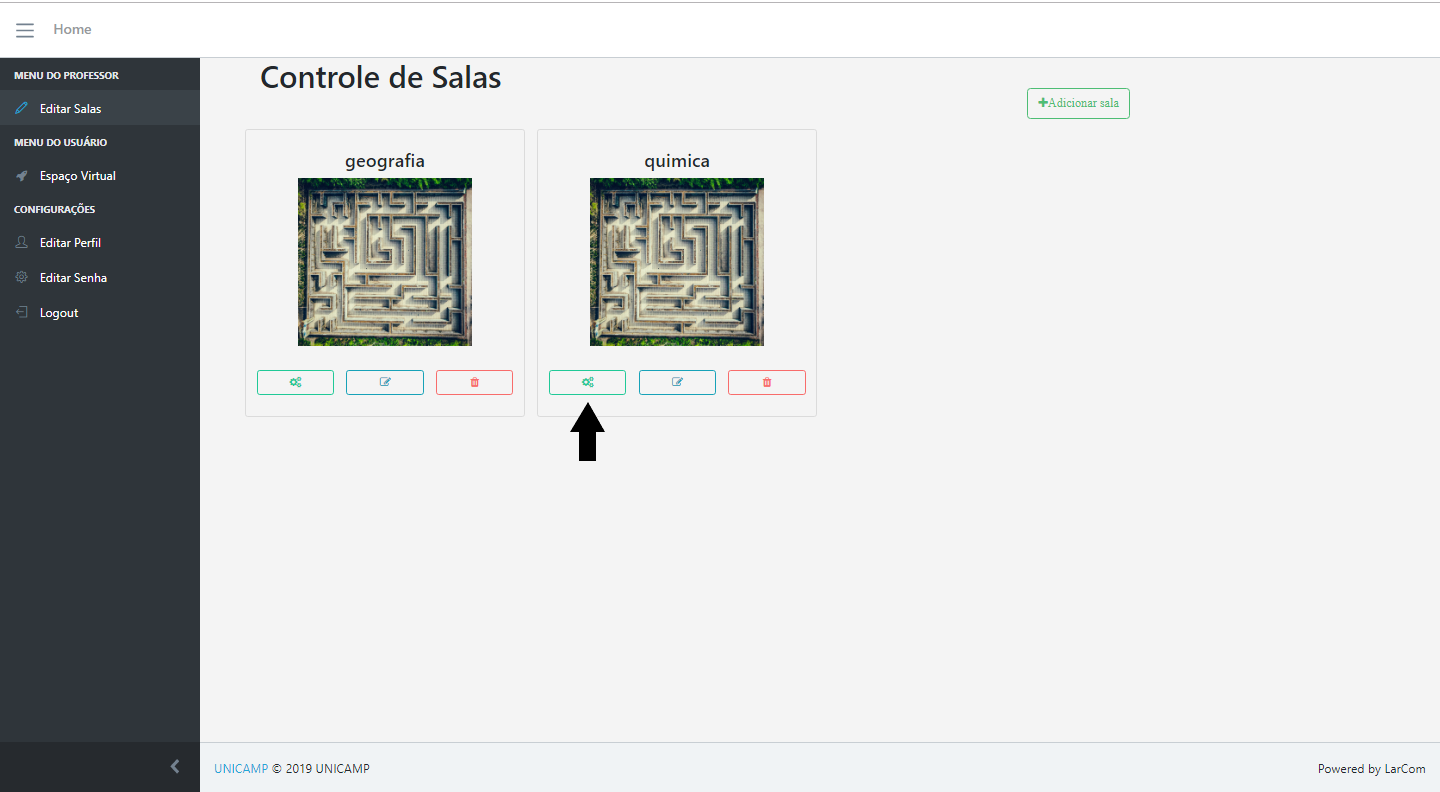
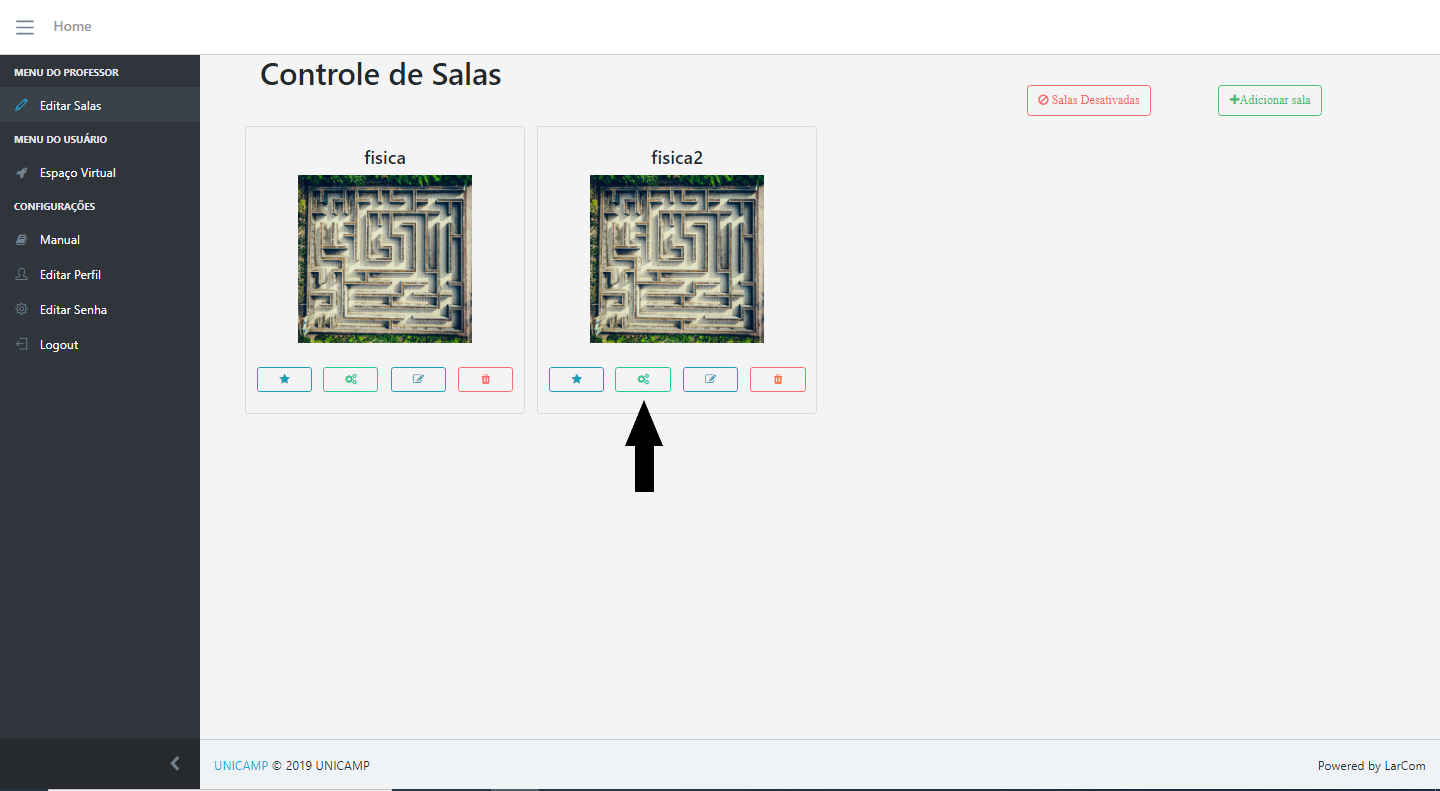
#cora att manual

diff --git a/public/admin/css/style.css b/public/admin/css/style.css
@@ -11217,6 +11217,7 @@ a.text-dark:focus {
 
     body {
         min-width: 992px !important;
+        line-height: 1.5;
     }
 
     .container {

diff --git a/resources/views/manual.blade.php b/resources/views/manual.blade.php
@@ -14,6 +14,8 @@
                             <a class="list-group-item list-group-item-action" href="manual#list-item-1-1">&emsp;Criar</a>
                             <a class="list-group-item list-group-item-action" href="manual#list-item-1-2">&emsp;Editar</a>
                             <a class="list-group-item list-group-item-action" href="manual#list-item-1-3">&emsp;Deletar</a>
+                            <a class="list-group-item list-group-item-action" href="manual#list-item-1-4">&emsp;Desabilitadas</a>
+                            <a class="list-group-item list-group-item-action" href="manual#list-item-1-5">&emsp;Habilitadas</a>
                         </div>
                     </a>
                     <a class="list-group-item list-group-item-action"></a>
@@ -72,7 +74,10 @@
                                         Tema: cenário do labirinto;
                                     </li>
                                     <li>
-                                        Sala Pública: este campo deverá marcado se a sala tiver que ser aberta a todos os jogadores, caso contrário apenas usuários escolhidos pelo criador do labirinto poderão acessar o jogo.
+                                        Sala Pública: este campo deverá ser marcado se a sala tiver que ser aberta a todos os jogadores, caso contrário apenas usuários escolhidos pelo criador do labirinto poderão acessar o jogo.
+                                    </li>
+                                    <li>
+                                        Ativo: este campo é marcado por padrão, ele permite que os alunos cadastrados na sala possam vê-la. Se não estiver marcado, os dados estatísticos serão mantidos, mas nenhum aluno poderá jogar o labirinto.
                                     </li>
                                 </ul>
 
@@ -102,6 +107,27 @@
                                 Para deletar uma sala, basta clicar no botão <i class="fa fa-trash"></i>.
                                 <br>
                                 <img src="/img/deletar_sala.png" class="img-fluid" style="width: 800px; padding-bottom: 50px; padding-top:50px; ">
+                            </p>
+                            
+                            <!--                            DESABILITAR SALA                           -->
+                            <h5 id="list-item-1-4">
+                                Desabilitar Sala
+                            </h5>
+                            <p>
+                                Para ver as salas desabilitadas, basta clicar em:
+                                <br>
+                                <img src="/img/disabled.png" class="img-fluid" style="width: 800px; padding-bottom: 50px; padding-top:50px; ">
+                            </p>
+                            
+                            
+                            <!--                            HABILITAR SALA                           -->
+                            <h5 id="list-item-1-5">
+                                Habilitar Sala
+                            </h5>
+                            <p>
+                                Para ver as salas habilitadas, basta clicar em:
+                                <br>
+                                <img src="/img/enabled.png" class="img-fluid" style="width: 800px; padding-bottom: 50px; padding-top:50px; ">
                             </p>
                             
                         </div>

diff --git a/resources/views/virtual.blade.php b/resources/views/virtual.blade.php
@@ -18,7 +18,11 @@
 <?php $linha = 0; $flag = 0; $flag_sala =0; $flag_salap =0;
 ?>
 
-<div class="container-fluid " style=" margin-top:20px; padding-top: 10px; padding-top: 10px; background-color:#ffffff; border-radius: 20px; ">
+@if($salapr>0)
+  <div class="container-fluid " style=" margin-top:20px; padding-top: 10px; padding-top: 10px; background-color:#ffffff; border-radius: 20px; display:block">
+@else
+<div class="container-fluid " style=" margin-top:20px; padding-top: 10px; padding-top: 10px; background-color:#ffffff; border-radius: 20px;display:none">
+@endif
 
     <h4> Salas Privadas </h4>
 
@@ -180,8 +184,11 @@
 
   <!------- Estrutura de repetição (CARD)------------------->
   
-
-  <div class="container-fluid " style=" margin-top:20px; padding-top: 10px; padding-top: 10px; background-color:#ffffff; border-radius: 20px; ">
+@if($salapu>0)
+  <div class="container-fluid " style=" margin-top:20px; padding-top: 10px; padding-top: 10px; background-color:#ffffff; border-radius: 20px; display:block">
+@else
+<div class="container-fluid " style=" margin-top:20px; padding-top: 10px; padding-top: 10px; background-color:#ffffff; border-radius: 20px;display:none">
+@endif
     <h4> Salas Publicas </h4>
 
     <?php $linha = 0; ?>

diff --git a/app/Http/Controllers/SalaController.php b/app/Http/Controllers/SalaController.php
@@ -6,6 +6,7 @@ use Illuminate\Http\Request;
 use Illuminate\Support\Facades\Hash;
 use Illuminate\Support\Facades\DB;
 use Illuminate\Support\Collection;
+use Illuminate\Support\Facades\Auth;
 use App\Sala;
 use File;
 
@@ -249,8 +250,21 @@ class SalaController extends Controller
         
         $sala_user = DB::table('sala_user')
         ->get();
+        $sala_user = DB::table('sala_user')
+        ->get();
+        $salapu = DB::table('salas')
+            ->where('public','=',1)->get();
+        
+        $salapu2 = count($salapu);
+        
+        $salapr = DB::table('salas')
+            ->join('sala_user','sala_user.sala_id','=','salas.id')
+            ->where('sala_user.user_id','=',Auth::user()->id)
+            ->where('public','=',0)->get();
 
-        return view('virtual')->with(['data' => $salas, 'sala_user' => $sala_user]);
+        $salapr2 = count($salapr);
+        
+        return view('virtual')->with(['data' => $salas, 'sala_user' => $sala_user,'salapu'=>$salapu2,'salapr'=>$salapr2]);
     }
 
     

diff --git a/resources/views/sala-disable.blade.php b/resources/views/sala-disable.blade.php
@@ -42,7 +42,7 @@
                 <a href="{{ url('/admin/virtual/'.$item->id)}}" class="btn btn-sm btn-outline-dark fa fa-qrcode col" style="margin-left:4%"></a>
                 &emsp;
 -->
-                <a href="{{ url('/admin/estatistica/'.$item->id) }}" class="btn btn-sm btn-outline-info fa fa-star col"></a>
+                <a href="{{ url('/admin/estatistica/'.$item->id) }}" class="btn btn-sm btn-outline-info fa fa-star col" style="margin-left:4%"></a>
                 <a class="btn btn-sm btn-outline-cyan fa fa-cogs col" data-toggle="modal" data-target="#salaEModal" data-whatevernome="{{$item->name}}" data-whatevertype="{{$item->duracao}}" data-whatevertema="{{$item->tematica}}" data-whateverpublic="{{$item->public}}" data-whateverid="{{$item->id}}" data-whateverenable="{{$item->enable}}" style="margin-left:4%"></a>
                 &emsp;
                 <a href="{{ url('admin/editar-sala/'.$item->id) }}" class="btn btn-sm btn-outline-info fa fa-pencil-square-o col"></a>

diff --git a/resources/views/sala.blade.php b/resources/views/sala.blade.php
@@ -45,7 +45,7 @@
                 <a href="{{ url('/admin/virtual/'.$item->id)}}" class="btn btn-sm btn-outline-dark fa fa-qrcode col" style="margin-left:4%"></a>
                 &emsp;
 -->
-                <a href="{{ url('/admin/estatistica/'.$item->id) }}" class="btn btn-sm btn-outline-info fa fa-star col"></a>
+                <a href="{{ url('/admin/estatistica/'.$item->id) }}" class="btn btn-sm btn-outline-info fa fa-star col" style="margin-left:4%"></a>
                 <a class="btn btn-sm btn-outline-cyan fa fa-cogs col" data-toggle="modal" data-target="#salaEModal" data-whatevernome="{{$item->name}}" data-whatevertype="{{$item->duracao}}" data-whatevertema="{{$item->tematica}}" data-whateverpublic="{{$item->public}}" data-whateverid="{{$item->id}}" data-whateverenable="{{$item->enable}}" style="margin-left:4%"></a>
                 &emsp;
                 <a href="{{ url('admin/editar-sala/'.$item->id) }}" class="btn btn-sm btn-outline-info fa fa-pencil-square-o col"></a>
